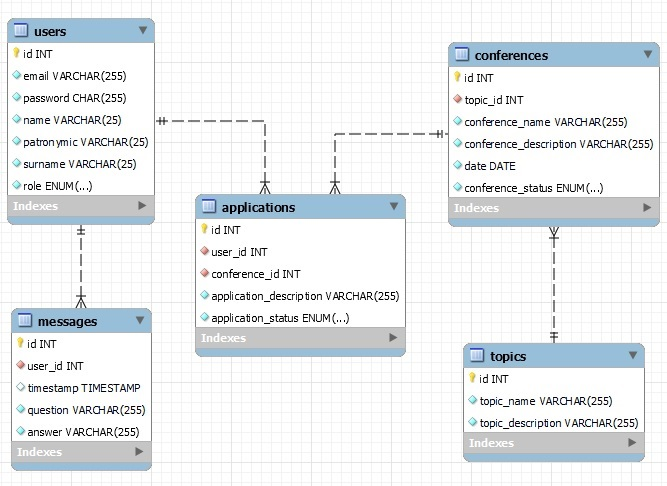
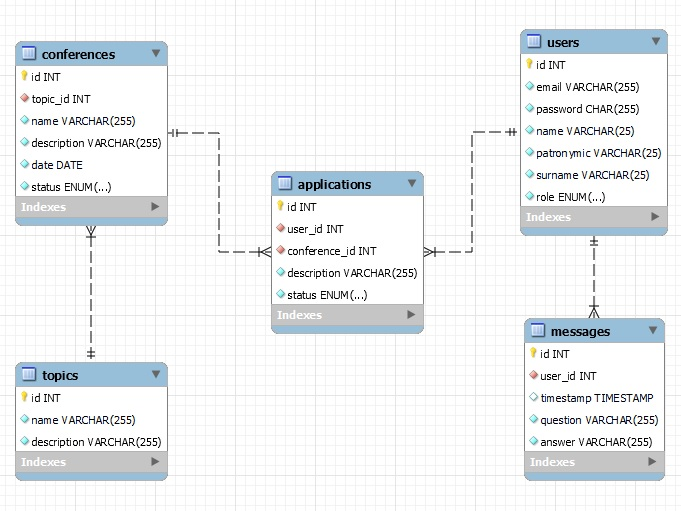
Update database schema

Changed region(s): [[0.0, 0.0309, 0.9895, 0.9877], [0.8696, 0.5247, 0.8996, 0.5556], [0.5097, 0.2469, 0.5397, 0.2778]]

diff --git a/src/main/java/by/khaletski/platform/dao/impl/ApplicationDaoImpl.java b/src/main/java/by/khaletski/platform/dao/impl/ApplicationDaoImpl.java
@@ -19,7 +19,9 @@ import java.util.List;
 import java.util.Optional;
 
 /**
- * Dao class "ApplicationDao"
+ * Dao class "ApplicationDao".
+ * The methods in this class are used for creating a PreparedStatement, executing the query
+ * and processing the ResultSet object.
  *
  * @author Anton Khaletski
  */
@@ -27,51 +29,59 @@ import java.util.Optional;
 public class ApplicationDaoImpl implements ApplicationDao {
     private static final Logger LOGGER = LogManager.getLogger();
     private static final String SQL_FIND_ALL_APPLICATIONS
-            = "SELECT applications.id, applications.user_id, applications.conference_id, \n" +
-            "applications.application_description, applications.application_status, \n" +
-            "conferences.topic_id, conferences.conference_name, conferences.conference_description, \n" +
-            "conferences.conference_status, conferences.date, \n" +
-            "topics.topic_name, topics.topic_description,\n" +
-            "users.email, users.name, users.patronymic, users.surname, users.role FROM applications\n" +
-            "INNER JOIN conferences ON applications.conference_id = conferences.id\n" +
-            "INNER JOIN topics ON conferences.topic_id = topics.id\n" +
+            = "SELECT applications.id, applications.user_id, applications.conference_id, " +
+            "applications.description, applications.status, " +
+            "conferences.topic_id, conferences.name AS conference_name, " +
+            "conferences.description AS conference_description, " +
+            "conferences.status AS conference_status, conferences.date AS conference_date, " +
+            "topics.name AS topic_name, topics.description AS topic_description, " +
+            "users.email AS user_email, users.name AS user_name, users.patronymic AS user_patronymic, " +
+            "users.surname AS user_surname, users.role AS user_role FROM applications " +
+            "INNER JOIN conferences ON applications.conference_id = conferences.id " +
+            "INNER JOIN topics ON conferences.topic_id = topics.id " +
             "INNER JOIN users ON applications.user_id = users.id";
     private static final String SQL_FIND_APPLICATION_BY_ID
-            = "SELECT applications.id, applications.user_id, applications.conference_id, \n" +
-            "applications.application_description, applications.application_status, \n" +
-            "conferences.topic_id, conferences.conference_name, conferences.conference_description, \n" +
-            "conferences.conference_status, conferences.date, \n" +
-            "topics.topic_name, topics.topic_description,\n" +
-            "users.email, users.name, users.patronymic, users.surname, users.role FROM applications\n" +
-            "INNER JOIN conferences ON applications.conference_id = conferences.id\n" +
-            "INNER JOIN topics ON conferences.topic_id = topics.id\n" +
+            = "SELECT applications.id, applications.user_id, applications.conference_id, " +
+            "applications.description, applications.status, " +
+            "conferences.topic_id, conferences.name AS conference_name, " +
+            "conferences.description AS conference_description, " +
+            "conferences.status AS conference_status, conferences.date AS conference_date, " +
+            "topics.name AS topic_name, topics.description AS topic_description, " +
+            "users.email AS user_email, users.name AS user_name, users.patronymic AS user_patronymic, " +
+            "users.surname AS user_surname, users.role AS user_role FROM applications " +
+            "INNER JOIN conferences ON applications.conference_id = conferences.id " +
+            "INNER JOIN topics ON conferences.topic_id = topics.id " +
             "INNER JOIN users ON applications.user_id = users.id WHERE applications.id=?";
     private static final String SQL_FIND_APPLICATIONS_BY_USER_ID
-            = "SELECT applications.id, applications.user_id, applications.conference_id, \n" +
-            "applications.application_description, applications.application_status, \n" +
-            "conferences.topic_id, conferences.conference_name, conferences.conference_description, \n" +
-            "conferences.conference_status, conferences.date, \n" +
-            "topics.topic_name, topics.topic_description,\n" +
-            "users.email, users.name, users.patronymic, users.surname, users.role FROM applications\n" +
-            "INNER JOIN conferences ON applications.conference_id = conferences.id\n" +
-            "INNER JOIN topics ON conferences.topic_id = topics.id\n" +
+            = "SELECT applications.id, applications.user_id, applications.conference_id, " +
+            "applications.description, applications.status, " +
+            "conferences.topic_id, conferences.name AS conference_name, " +
+            "conferences.description AS conference_description, " +
+            "conferences.status AS conference_status, conferences.date AS conference_date, " +
+            "topics.name AS topic_name, topics.description AS topic_description, " +
+            "users.email AS user_email, users.name AS user_name, users.patronymic AS user_patronymic, " +
+            "users.surname AS user_surname, users.role AS user_role FROM applications " +
+            "INNER JOIN conferences ON applications.conference_id = conferences.id " +
+            "INNER JOIN topics ON conferences.topic_id = topics.id " +
             "INNER JOIN users ON applications.user_id = users.id WHERE applications.user_id=?";
     private static final String SQL_FIND_USERS_BY_CONFERENCE_ID
-                = "SELECT applications.id, applications.user_id, applications.conference_id, \n" +
-                        "applications.application_description, applications.application_status, \n" +
-                        "conferences.topic_id, conferences.conference_name, conferences.conference_description, \n" +
-                        "conferences.conference_status, conferences.date, \n" +
-                        "topics.topic_name, topics.topic_description,\n" +
-                        "users.email, users.name, users.patronymic, users.surname, users.role FROM applications\n" +
-                        "INNER JOIN conferences ON applications.conference_id = conferences.id\n" +
-                        "INNER JOIN topics ON conferences.topic_id = topics.id\n" +
-                        "INNER JOIN users ON applications.user_id = users.id WHERE applications.conference_id=?";
+            = "SELECT applications.id, applications.user_id, applications.conference_id, " +
+            "applications.description, applications.status, " +
+            "conferences.topic_id, conferences.name AS conference_name, " +
+            "conferences.description AS conference_description, " +
+            "conferences.status AS conference_status, conferences.date AS conference_date, " +
+            "topics.name AS topic_name, topics.description AS topic_description, " +
+            "users.email AS user_email, users.name AS user_name, users.patronymic AS user_patronymic, " +
+            "users.surname AS user_surname, users.role AS user_role FROM applications " +
+            "INNER JOIN conferences ON applications.conference_id = conferences.id " +
+            "INNER JOIN topics ON conferences.topic_id = topics.id " +
+            "INNER JOIN users ON applications.user_id = users.id WHERE applications.conference_id=?";
     private static final String SQL_ADD_APPLICATION
-            = "INSERT INTO applications (user_id, conference_id, application_description, application_status) values(?,?,?,?)";
+            = "INSERT INTO applications (user_id, conference_id, description, status) values(?,?,?,?)";
     private static final String SQL_CHANGE_APPLICATION_STATUS
-            = "UPDATE applications set application_status=? WHERE id=?";
+            = "UPDATE applications set status=? WHERE id=?";
     private static final String SQL_EDIT_APPLICATION
-            = "UPDATE applications SET user_id=?, conference_id=?, application_description=?, status=? WHERE id=?";
+            = "UPDATE applications SET user_id=?, conference_id=?, description=?, status=? WHERE id=?";
     private static final String SQL_REMOVE_APPLICATION_BY_ID
             = "DELETE FROM applications WHERE id=?";
 
@@ -240,16 +250,23 @@ public class ApplicationDaoImpl implements ApplicationDao {
         return ifRemoved;
     }
 
+    /**
+     * This method creates an object from ResultSet.
+     * @param resultSet
+     * @return
+     * @throws SQLException
+     */
+
     private Application retrieve(ResultSet resultSet) throws SQLException {
         return new Application.Builder()
                 .setId(resultSet.getInt("id"))
                 .setUser(new User.Builder()
                         .setId(resultSet.getInt("user_id"))
-                        .setEmail(resultSet.getString("email"))
-                        .setName(resultSet.getString("name"))
-                        .setPatronymic(resultSet.getString("patronymic"))
-                        .setSurname(resultSet.getString("surname"))
-                        .setRole(User.Role.valueOf(resultSet.getString("role")))
+                        .setEmail(resultSet.getString("user_email"))
+                        .setName(resultSet.getString("user_name"))
+                        .setPatronymic(resultSet.getString("user_patronymic"))
+                        .setSurname(resultSet.getString("user_surname"))
+                        .setRole(User.Role.valueOf(resultSet.getString("user_role")))
                         .build())
                 .setConference(new Conference.Builder()
                         .setId(resultSet.getInt("conference_id"))
@@ -260,11 +277,11 @@ public class ApplicationDaoImpl implements ApplicationDao {
                                 .build())
                         .setName(resultSet.getString("conference_name"))
                         .setDescription(resultSet.getString("conference_description"))
-                        .setDate(resultSet.getDate("date"))
+                        .setDate(resultSet.getDate("conference_date"))
                         .setStatus(Conference.Status.valueOf(resultSet.getString("conference_status")))
                         .build())
-                .setDescription(resultSet.getString("application_description"))
-                .setStatus(Application.Status.valueOf(resultSet.getString("application_status")))
+                .setDescription(resultSet.getString("description"))
+                .setStatus(Application.Status.valueOf(resultSet.getString("status")))
                 .build();
     }
 }

diff --git a/src/main/java/by/khaletski/platform/dao/impl/ConferenceDaoImpl.java b/src/main/java/by/khaletski/platform/dao/impl/ConferenceDaoImpl.java
@@ -18,30 +18,30 @@ import java.util.Optional;
 
 /**
  * Dao class "ConferenceDao"
+ * The methods in this class are used for creating a PreparedStatement, executing the query
+ * and processing the ResultSet object.
  *
  * @author Anton Khaletski
  */
 
 public class ConferenceDaoImpl implements ConferenceDao {
     private static final Logger LOGGER = LogManager.getLogger();
-    private static final String SQL_FIND_ALL_CONFERENCES =
-            "SELECT conferences.id, conferences.topic_id, conferences.conference_name, " +
-                    "conferences.conference_description, conferences.date, conferences.conference_status, " +
-                    "topics.topic_name, topics.topic_description " +
-                    "FROM conferences INNER JOIN topics ON topics.id = conferences.topic_id";
+    private static final String SQL_FIND_ALL_CONFERENCES
+            = "SELECT conferences.id, conferences.topic_id, conferences.name, " +
+            "conferences.description, conferences.date, conferences.status, " +
+            "topics.name AS topic_name, topics.description AS topic_description " +
+            "FROM conferences INNER JOIN topics ON topics.id = conferences.topic_id";
     private static final String SQL_FIND_CONFERENCE_BY_ID
-            = "SELECT conferences.id, conferences.topic_id, conferences.conference_name, " +
-            "conferences.conference_description, conferences.date, conferences.conference_status, " +
-            "topics.topic_name, topics.topic_description " +
+            = "SELECT conferences.id, conferences.topic_id, conferences.name, " +
+            "conferences.description, conferences.date, conferences.status, " +
+            "topics.name AS topic_name, topics.description AS topic_description " +
             "FROM conferences INNER JOIN topics ON topics.id = conferences.topic_id WHERE conferences.id=?";
     private static final String SQL_ADD_CONFERENCE
-            = "INSERT INTO conferences"
-            + " (topic_id, conference_name, conference_description, date, conference_status) values(?,?,?,?,?)";
+            = "INSERT INTO conferences (topic_id, name, description, date, status) values(?,?,?,?,?)";
     private static final String SQL_EDIT_CONFERENCE_BY_ID
-            = "UPDATE conferences "
-            + "SET topic_id=?, conference_name=?, conference_description=?, date=? WHERE id=?";
+            = "UPDATE conferences SET topic_id=?, name=?, description=?, date=? WHERE id=?";
     private static final String SQL_CHANGE_CONFERENCE_STATUS_BY_ID
-            = "UPDATE conferences SET conference_status=? WHERE id=?";
+            = "UPDATE conferences SET status=? WHERE id=?";
     private static final String SQL_REMOVE_CONFERENCE_BY_ID
             = "DELETE FROM conferences WHERE id=?";
 
@@ -174,6 +174,13 @@ public class ConferenceDaoImpl implements ConferenceDao {
         return isRemoved;
     }
 
+    /**
+     * This method creates an object from ResultSet.
+     * @param resultSet
+     * @return
+     * @throws SQLException
+     */
+
     private Conference retrieve(ResultSet resultSet) throws SQLException {
         return new Conference.Builder()
                 .setId(resultSet.getInt("id"))
@@ -182,11 +189,10 @@ public class ConferenceDaoImpl implements ConferenceDao {
                         .setName(resultSet.getString("topic_name"))
                         .setDescription(resultSet.getString("topic_description"))
                         .build())
-                .setName(resultSet.getString("conference_name"))
-                .setDescription(resultSet.getString("conference_description"))
+                .setName(resultSet.getString("name"))
+                .setDescription(resultSet.getString("description"))
                 .setDate(resultSet.getDate("date"))
-                .setStatus(Conference
-                        .Status.valueOf(resultSet.getString("conference_status")))
+                .setStatus(Conference.Status.valueOf(resultSet.getString("status")))
                 .build();
     }
 }

diff --git a/src/main/java/by/khaletski/platform/dao/impl/MessageDaoImpl.java b/src/main/java/by/khaletski/platform/dao/impl/MessageDaoImpl.java
@@ -16,19 +16,30 @@ import java.util.ArrayList;
 import java.util.List;
 import java.util.Optional;
 
+/**
+ * Dao class "MessageDao".
+ * The methods in this class are used for creating a PreparedStatement, executing the query
+ * and processing the ResultSet object.
+ *
+ * @author Anton Khaletski
+ */
+
 public class MessageDaoImpl implements MessageDao {
     private static final Logger LOGGER = LogManager.getLogger();
     private static final String SQL_FIND_ALL_MESSAGES
-            = "SELECT messages.id, messages.user_id, messages.timestamp, messages.question, messages.answer,\n" +
-            "users.email, users.name, users.patronymic, users.surname, users.role FROM messages\n" +
+            = "SELECT messages.id, messages.user_id, messages.timestamp, messages.question, messages.answer, " +
+            "users.email AS user_email, users.name AS user_name, users.patronymic AS user_patronymic, " +
+            "users.surname AS user_surname, users.role AS user_role FROM messages " +
             "INNER JOIN users ON messages.user_id = users.id";
     private static final String SQL_FIND_MESSAGE_BY_ID
-            = "SELECT messages.id, messages.user_id, messages.timestamp, messages.question, messages.answer,\n" +
-            "users.email, users.name, users.patronymic, users.surname, users.role FROM messages\n" +
+            = "SELECT messages.id, messages.user_id, messages.timestamp, messages.question, messages.answer, " +
+            "users.email AS user_email, users.name AS user_name, users.patronymic AS user_patronymic, " +
+            "users.surname AS user_surname, users.role AS user_role FROM messages " +
             "INNER JOIN users ON messages.user_id = users.id WHERE messages.id=?";
     private static final String SQL_FIND_MESSAGES_BY_USER_ID
-            = "SELECT messages.id, messages.user_id, messages.timestamp, messages.question, messages.answer,\n" +
-            "users.email, users.name, users.patronymic, users.surname, users.role FROM messages\n" +
+            = "SELECT messages.id, messages.user_id, messages.timestamp, messages.question, messages.answer, " +
+            "users.email AS user_email, users.name AS user_name, users.patronymic AS user_patronymic, " +
+            "users.surname AS user_surname, users.role AS user_role FROM messages " +
             "INNER JOIN users ON messages.user_id = users.id WHERE messages.user_id=?";
     private static final String SQL_ADD_MESSAGE
             = "INSERT INTO messages (user_id, question) values(?,?)";
@@ -156,16 +167,23 @@ public class MessageDaoImpl implements MessageDao {
         return isRemoved;
     }
 
+    /**
+     * This method creates an object from ResultSet.
+     * @param resultSet
+     * @return
+     * @throws SQLException
+     */
+
     private Message retrieve(ResultSet resultSet) throws SQLException {
         return new Message.Builder()
                 .setId(resultSet.getInt("id"))
                 .setUser(new User.Builder()
                         .setId(resultSet.getInt("user_id"))
-                        .setEmail(resultSet.getString("email"))
-                        .setName(resultSet.getString("name"))
-                        .setPatronymic(resultSet.getString("patronymic"))
-                        .setSurname(resultSet.getString("surname"))
-                        .setRole(User.Role.valueOf(resultSet.getString("role")))
+                        .setEmail(resultSet.getString("user_email"))
+                        .setName(resultSet.getString("user_name"))
+                        .setPatronymic(resultSet.getString("user_patronymic"))
+                        .setSurname(resultSet.getString("user_surname"))
+                        .setRole(User.Role.valueOf(resultSet.getString("user_role")))
                         .build())
                 .setTimestamp(resultSet.getTimestamp("timestamp"))
                 .setQuestion(resultSet.getString("question"))

diff --git a/src/main/java/by/khaletski/platform/dao/impl/TopicDaoImpl.java b/src/main/java/by/khaletski/platform/dao/impl/TopicDaoImpl.java
@@ -17,22 +17,19 @@ import java.util.Optional;
 
 /**
  * Dao class "TopicDao"
+ * The methods in this class are used for creating a PreparedStatement, executing the query
+ * and processing the ResultSet object.
  *
  * @author Anton Khaletski
  */
 
 public class TopicDaoImpl implements TopicDao {
     private static final Logger LOGGER = LogManager.getLogger();
-    private static final String SQL_FIND_ALL_TOPICS
-            = "SELECT id, topic_name, topic_description FROM topics";
-    private static final String SQL_FIND_TOPIC_BY_ID
-            = "SELECT id, topic_name, topic_description FROM topics WHERE id=?";
-    private static final String SQL_ADD_TOPIC
-            = "INSERT INTO topics (topic_name, topic_description) values(?,?)";
-    private static final String SQL_EDIT_TOPIC_BY_ID
-            = "UPDATE topics SET topic_name=?, topic_description=? WHERE id=?";
-    private static final String SQL_REMOVE_TOPIC_BY_ID
-            = "DELETE FROM topics WHERE id=?";
+    private static final String SQL_FIND_ALL_TOPICS = "SELECT id, name, description FROM topics";
+    private static final String SQL_FIND_TOPIC_BY_ID = "SELECT id, name, description FROM topics WHERE id=?";
+    private static final String SQL_ADD_TOPIC = "INSERT INTO topics (name, description) values(?,?)";
+    private static final String SQL_EDIT_TOPIC_BY_ID = "UPDATE topics SET name=?, description=? WHERE id=?";
+    private static final String SQL_REMOVE_TOPIC_BY_ID = "DELETE FROM topics WHERE id=?";
 
     @Override
     public List<Topic> findAll() throws DaoException {
@@ -136,11 +133,18 @@ public class TopicDaoImpl implements TopicDao {
         return isRemoved;
     }
 
+    /**
+     * This method creates an object from ResultSet.
+     * @param resultSet
+     * @return
+     * @throws SQLException
+     */
+
     private Topic retrieve(ResultSet resultSet) throws SQLException {
         return new Topic.Builder()
                 .setId(resultSet.getInt("id"))
-                .setName(resultSet.getString("topic_name"))
-                .setDescription(resultSet.getString("topic_description"))
+                .setName(resultSet.getString("name"))
+                .setDescription(resultSet.getString("description"))
                 .build();
     }
 }

diff --git a/src/main/java/by/khaletski/platform/dao/impl/UserDaoImpl.java b/src/main/java/by/khaletski/platform/dao/impl/UserDaoImpl.java
@@ -16,7 +16,9 @@ import java.util.List;
 import java.util.Optional;
 
 /**
- * Dao class "UserDao"
+ * Dao class "UserDao".
+ * The methods in this class are used for creating a PreparedStatement, executing the query
+ * and processing the ResultSet object.
  *
  * @author Anton Khaletski
  */
@@ -211,6 +213,13 @@ public class UserDaoImpl implements UserDao {
         }
         return optional;
     }
+
+    /**
+     * This method creates an object from ResultSet.
+     * @param resultSet
+     * @return
+     * @throws SQLException
+     */
 
     private User retrieve(ResultSet resultSet) throws SQLException {
         return new User.Builder()
